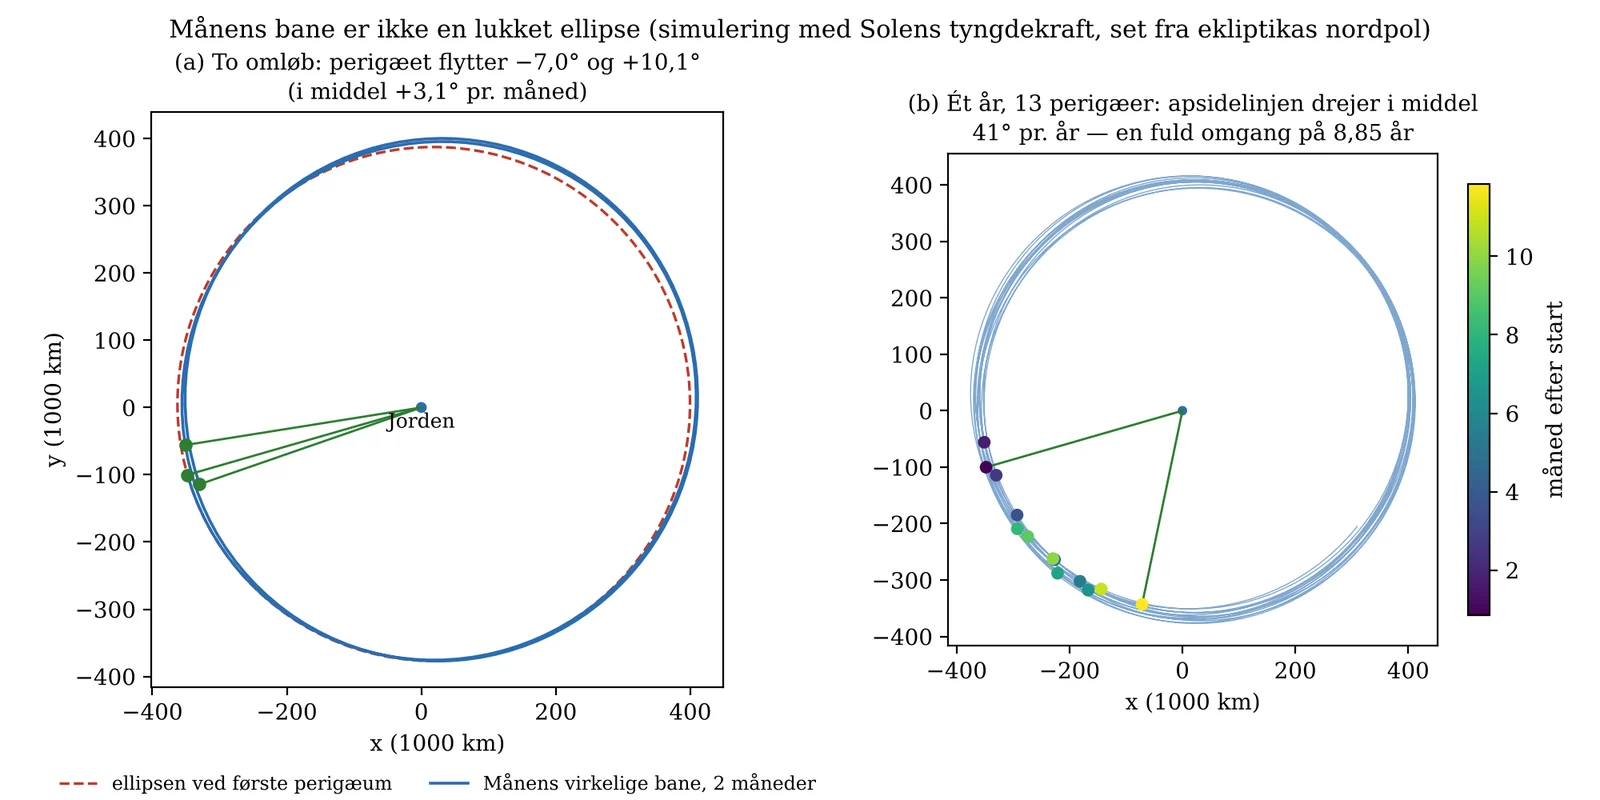
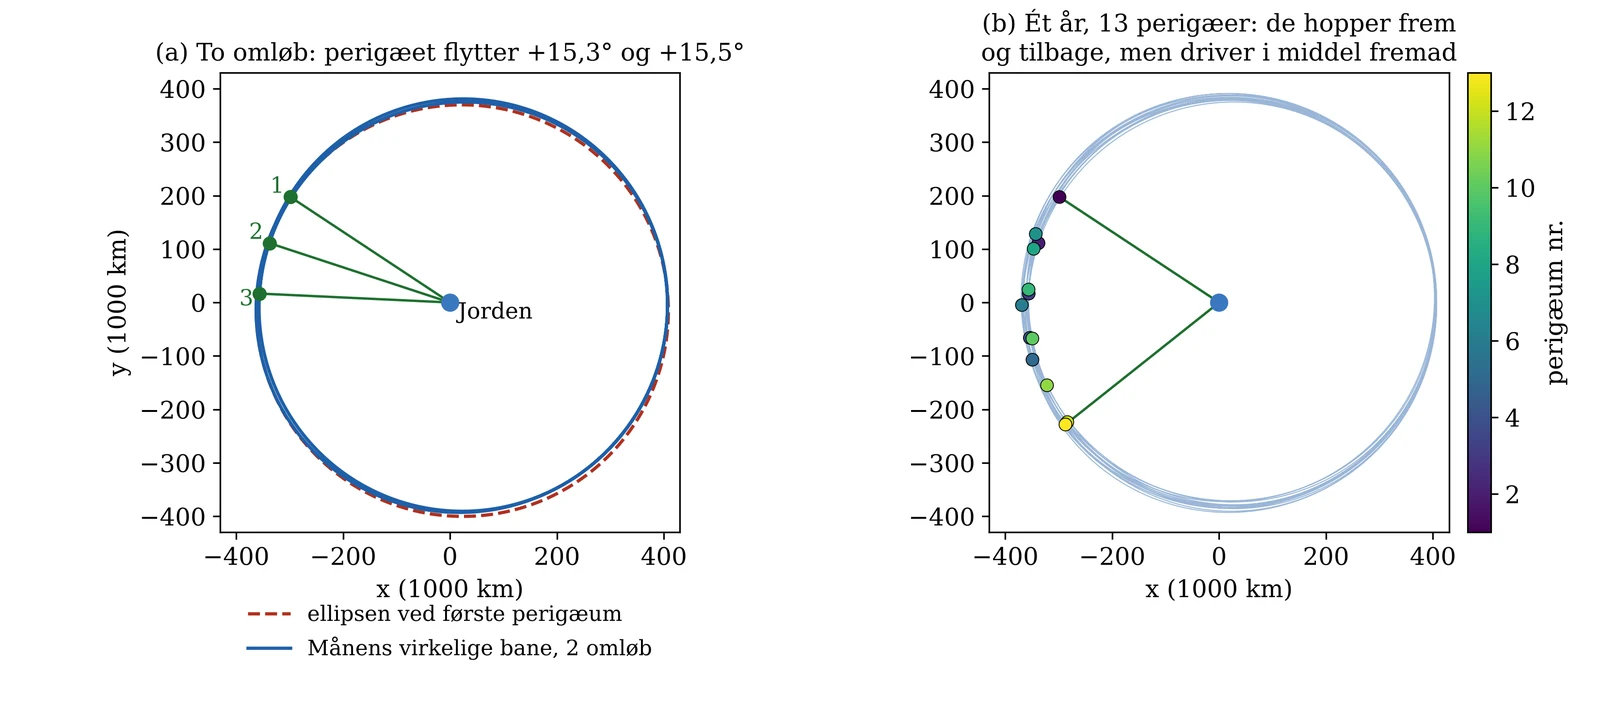
Månens bane 3D: nye figurer og billedtekster i simuleringsdialogen
Figur 1 og 2 i dialogen er tegnet om ud fra samme simulering som
KVANT-artiklen. Billedteksten giver nu 18,6 og 8,9 år i stedet for
18,3 og 8,8 år, og regnefejlen i overskriften til figur 1 er væk.

Claude-Session: https://claude.ai/code/session_017ooL9B6oeqMPR5MK5VWNTt

diff --git a/maanens-bane-3d.html b/maanens-bane-3d.html
@@ -267,13 +267,13 @@ button.ecl-row .ty{font-size:10.5px; color:var(--muted); white-space:nowrap; ove
   <p>Figurerne herunder er beregnet ved at integrere Månens bevægelsesligning numerisk over 19 år med både Jordens og Solens tyngdekraft, mens Jorden følger sin egen let elliptiske bane om Solen.</p>
 
   <h3>1 · Banen lukker sig ikke</h3>
-  <figure><img src="maane_1_aaben_bane.webp" alt="Månens bane over to omløb sammenlignet med en fast ellipse, og perigæets vandring over et år" loading="lazy" width="1600" height="800">
-  <figcaption>(a) To omløb sammenholdt med den ellipse, Månen fulgte ved første perigæum. Perigæet hopper frem og tilbage fra omløb til omløb, men i middel flytter det sig ca. 3° pr. måned. (b) Et år med 13 perigæer: apsidelinjen drejer i middel 41° pr. år og når en hel omgang på 8,85 år.</figcaption></figure>
+  <figure><img src="maane_1_aaben_bane.webp" alt="Månens bane over to omløb sammenlignet med en fast ellipse, og perigæets vandring over et år" loading="lazy" width="1600" height="727">
+  <figcaption>Set fra ekliptikas nordpol. (a) To omløb sammenholdt med den ellipse, Månen fulgte ved første perigæum. Her flytter perigæet sig ca. 15° frem pr. omløb; i andre måneder går det tilbage. (b) Et år med 13 perigæer, farvet efter nummer: de hopper frem og tilbage med evektionen, men driver fremad – over mange år i middel 41° pr. år, en hel omgang på 8,85 år.</figcaption></figure>
   <p>Netop dette voldte Newton besvær. Hans beregning i <em>Principia</em> gav kun omkring halvdelen af den observerede drejning af apsidelinjen. Først i 1749 fik Clairaut teori og iagttagelse til at passe ved at tage et led mere med i regningen.</p>
 
   <h3>2 · To cyklusser: 18,6 og 8,85 år</h3>
-  <figure><img src="maane_2_cyklusser.webp" alt="Månebanens pol vandrer i en cirkel om ekliptikas pol; knudelinjen og apsidelinjen drejer over 19 år" loading="lazy" width="1600" height="736">
-  <figcaption>(a) Månebanens pol vandrer rundt om ekliptikas pol i en cirkel med radius ca. 5,1°. Knudelinjen drejer derfor baglæns. Takkerne er Solens påvirkning, der skifter to gange pr. måned. (b) Knudelinjen drejer baglæns og apsidelinjen forlæns. Simuleringen giver 18,3 og 8,8 år mod de observerede 18,61 og 8,85 år; forskellen skyldes, at den starter fra et øjebliksbillede af banen frem for middelelementer. Knudecyklussen på 18,6 år er ikke det samme som Saros-cyklussen på 18 år og 11 dage, der styrer formørkelsernes gentagelse.</figcaption></figure>
+  <figure><img src="maane_2_cyklusser.webp" alt="Månebanens pol vandrer i en cirkel om ekliptikas pol; knudelinjen og apsidelinjen drejer over 19 år" loading="lazy" width="1600" height="669">
+  <figcaption>(a) Månebanens pol vandrer rundt om ekliptikas pol i en cirkel med radius ca. 5,1°. Knudelinjen drejer derfor baglæns. Takkerne er Solens påvirkning, der skifter to gange pr. måned. (b) Knudelinjen drejer baglæns én omgang på 18,6 år (rød), apsidelinjen forlæns én omgang på 8,9 år (grøn); de observerede værdier er 18,61 og 8,85 år. De tykke linjer er middeldrejningen. Den tynde grønne kurve er apsidelinjens øjeblikkelige retning, der svinger med evektionen. Knudecyklussen på 18,6 år er ikke det samme som Saros-cyklussen på 18 år og 11 dage, der styrer formørkelsernes gentagelse.</figcaption></figure>
 
   <h3>3 · En deform tyngdebrønd</h3>
   <figure><img src="maane_3_broenden.webp" alt="Solens tidevandsfelt omkring Jorden og den ovale tyngdebrønd, symmetrisk om linjen mod Solen" loading="lazy" width="1600" height="768">
